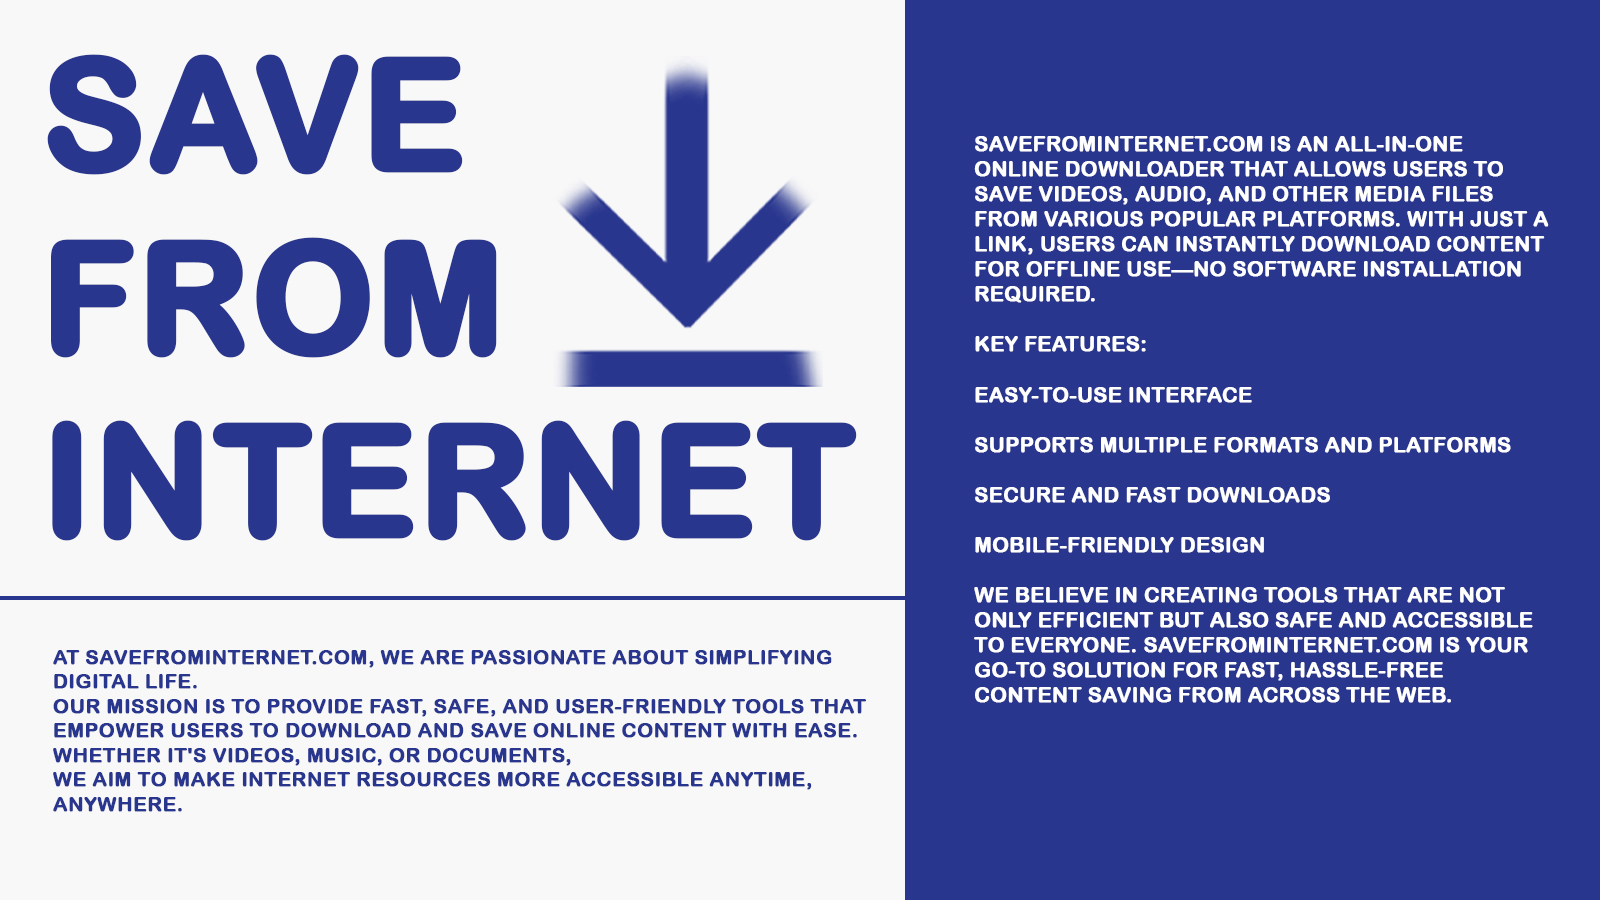
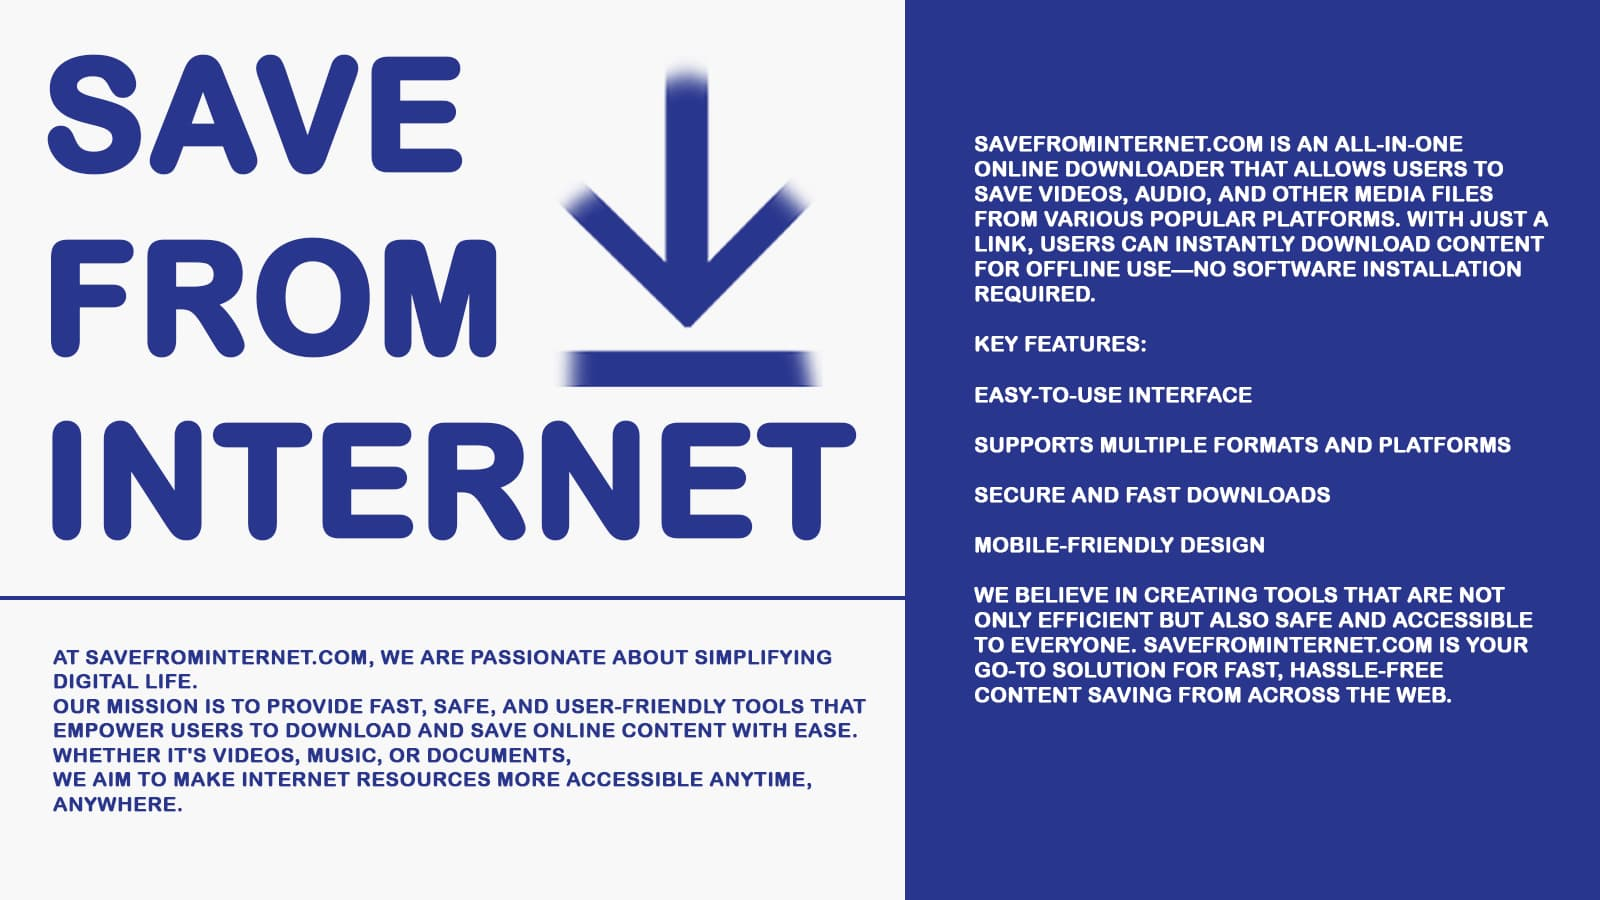
Compress public images 77-89% and add homepage/image cache headers

diff --git a/next.config.js b/next.config.js
@@ -78,6 +78,20 @@ const nextConfig = {
           { key: "Cache-Control", value: "public, max-age=0, s-maxage=3600, stale-while-revalidate=86400" },
         ],
       },
+      // Homepage: Cloudflare edge cache 1h
+      {
+        source: "/",
+        headers: [
+          { key: "Cache-Control", value: "public, max-age=0, s-maxage=3600, stale-while-revalidate=86400" },
+        ],
+      },
+      // Public images: long cache (these are versioned by filename)
+      {
+        source: "/(.*\\.(?:jpg|jpeg|png|svg|webp|avif|gif|ico))",
+        headers: [
+          { key: "Cache-Control", value: "public, max-age=604800, stale-while-revalidate=2592000" },
+        ],
+      },
       // Static assets — immutable long cache
       {
         source: "/_next/static/(.*)",
